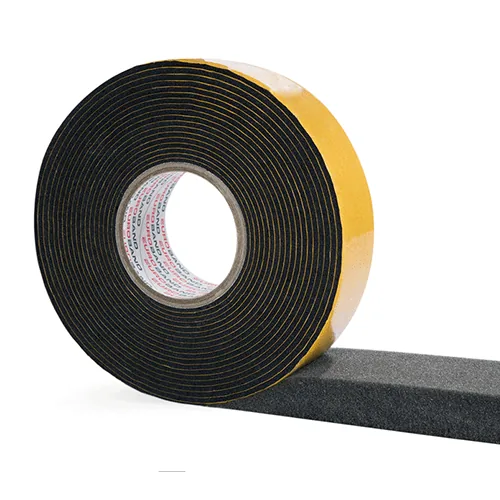
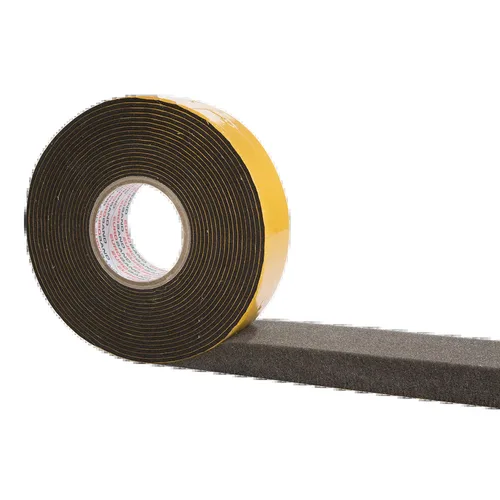
Настоящие фото ленты ПСУЛ от клиента: карточка, галерея, новый слайд hero
Обновлено фото товара psul-euroband-dlja-okon, в его галерею добавлены
ещё два кадра, и добавлен шестой слайд hero — у ПСУЛ, одной из трёх
флагманских лент своего производства, своего слайда раньше не было.

diff --git a/src/components/home/Hero.tsx b/src/components/home/Hero.tsx
@@ -8,6 +8,7 @@ import sandwichPanels from '../../assets/hero/sandwich-panels.webp';
 import roofStandingSeam from '../../assets/hero/roof-standing-seam.webp';
 import tapeSlabJoint from '../../assets/hero/tape-slab-joint.webp';
 import floorDamperTape from '../../assets/hero/floor-damper-tape.webp';
+import psulTape from '../../assets/hero/psul-tape.webp';
 
 interface HeroProps {
   onOpenCallback: () => void;
@@ -71,6 +72,15 @@ const SLIDES: Slide[] = [
     image: floorDamperTape,
     href: `${paths.category('materialy-dlya-okon')}?sub=uplotnitelnye-lenty-pes-samokleyaschiesy`,
     cta: 'Ленты ПЭС'
+  },
+  {
+    id: 'psul',
+    lead: 'Саморасширяющаяся лента —',
+    accent: 'ПСУЛ EUROBAND',
+    text: 'Акриловая пропитка и открытая ячейка: после монтажа лента расширяется впятеро и держит шов сухим и паропроницаемым не менее 20 лет.',
+    image: psulTape,
+    href: `${paths.category('materialy-dlya-okon')}?sub=samorasshiryayuschayasya-lenta-psul`,
+    cta: 'Лента ПСУЛ'
   }
 ];
 

diff --git a/src/lib/contentImageMap.ts b/src/lib/contentImageMap.ts
@@ -261,4 +261,8 @@ export const CONTENT_IMAGE_MAP: Record<string, string> = {
   "https://invit.by/image/data/ventilation/flancevyj_profil%27_K40.jpg": 'flancevyj-profil-k40-9d2a63',
   "https://invit.by/image/cache/data/slides/lenta_pe_euroband-1092x337.jpg": 'lenta-pe-euroband-1092x337-ce0e49',
   "https://invit.by/image/cache/data/slides/lenta_vla_euroband_pil-1092x337.jpg": 'lenta-vla-euroband-pil-1092x337-175bdb',
+
+  // Ниже — не с invit.by, а фото, присланные клиентом напрямую. Ключ синтетический.
+  "local:psul-euroband-etiketka": 'psul-euroband-etiketka',
+  "local:psul-euroband-4-rulona": 'psul-euroband-4-rulona',
 };

diff --git a/src/data/productContent.ts b/src/data/productContent.ts
@@ -2562,6 +2562,8 @@ export const PRODUCT_CONTENT: Record<string, ProductContent> = {
       'https://invit.by/image/data/PSUL/psul_psul.jpg',
       'https://invit.by/image/data/PSUL/psul_svojstva.jpg',
       'https://invit.by/image/data/PSUL/diagramma_psul.jpg',
+      'local:psul-euroband-etiketka',
+      'local:psul-euroband-4-rulona',
     ],
     blocks: [
       { kind: 'heading', text: 'Описание продукта' },

diff --git a/PROGRESS.md b/PROGRESS.md
@@ -820,6 +820,36 @@ Tailwind 4 отдаёт emerald как `oklch`, а скрипт искал `rgb`
 комментарий, комментарий предзаполнен пометкой источника клика. `SinceBlock`
 принял проп `onOpenCallback`, прокидывается из `HomePage.tsx`.
 
+## Настоящие фото ленты ПСУЛ от клиента
+Клиент прислал 6 фото своей продукции — рулоны ПСУЛ EUROBAND (с этикеткой,
+россыпью, в разрезе, на затемнённом фоне «ступеньками»). Разошлись по трём
+местам:
+
+- **Карточка товара `psul-euroband-dlja-okon`.** Старое фото ролика (500×500,
+  тянулось с invit.by через `productImages.ts`) заменено на присланное —
+  тот же ракурс (рулон разматывается в полосу), но чётче и без сжатия
+  invit.by. Файл просто перезаписан по тому же пути, код не менялся:
+  `productImage()` находит локальный файл по id товара.
+- **Галерея того же товара.** В `productContent.ts` добавлены ещё два фото
+  (этикетка «ПСУЛ EUROBAND» с роликами и россыпь из 4 рулонов) — они не
+  из invit.by, поэтому `CONTENT_IMAGE_MAP` (обычно генерируется скриптом
+  по адресам invit.by) пришлось дополнить руками, синтетическими ключами
+  вида `local:psul-euroband-etiketka`.
+- **Шестой слайд hero.** У ПСУЛ — одной из трёх флагманских лент
+  собственного производства — своего слайда не было, хотя окна, сэндвич,
+  ПЭС и демпферная лента уже у себя есть. Добавлен `src/assets/hero/
+  psul-tape.webp`: то самое фото «ступеньками» на затемнённом фоне, тот же
+  приём градиента, что у остальных пяти слайдов. Клиент отметил, что тёмные
+  кадры можно осветлить — прогнал через Pillow (`ImageEnhance`, +18%
+  яркости, +6% контраста) перед тем, как класть в проект.
+
+Из 6 присланных фото использовано 4; ещё два (россыпь роликов под углом,
+второй ракурс «ступенек») не пригодились — для карточки и слайда хватило
+одного фото на образ, дублировать не стал.
+
+Проверено скриншотами: слайд на десктопе и мобильном (375px), галерея
+товара — все миниатюры кликабельны и показывают нужные фото.
+
 ## Логотип в подвале — белый вариант
 Клиент прислал белую версию знака (`src/assets/logo/invit-light.svg`): текст
 белый, сам знак фирменный синий. Она и стоит в подвале — без плашки и отступов.
